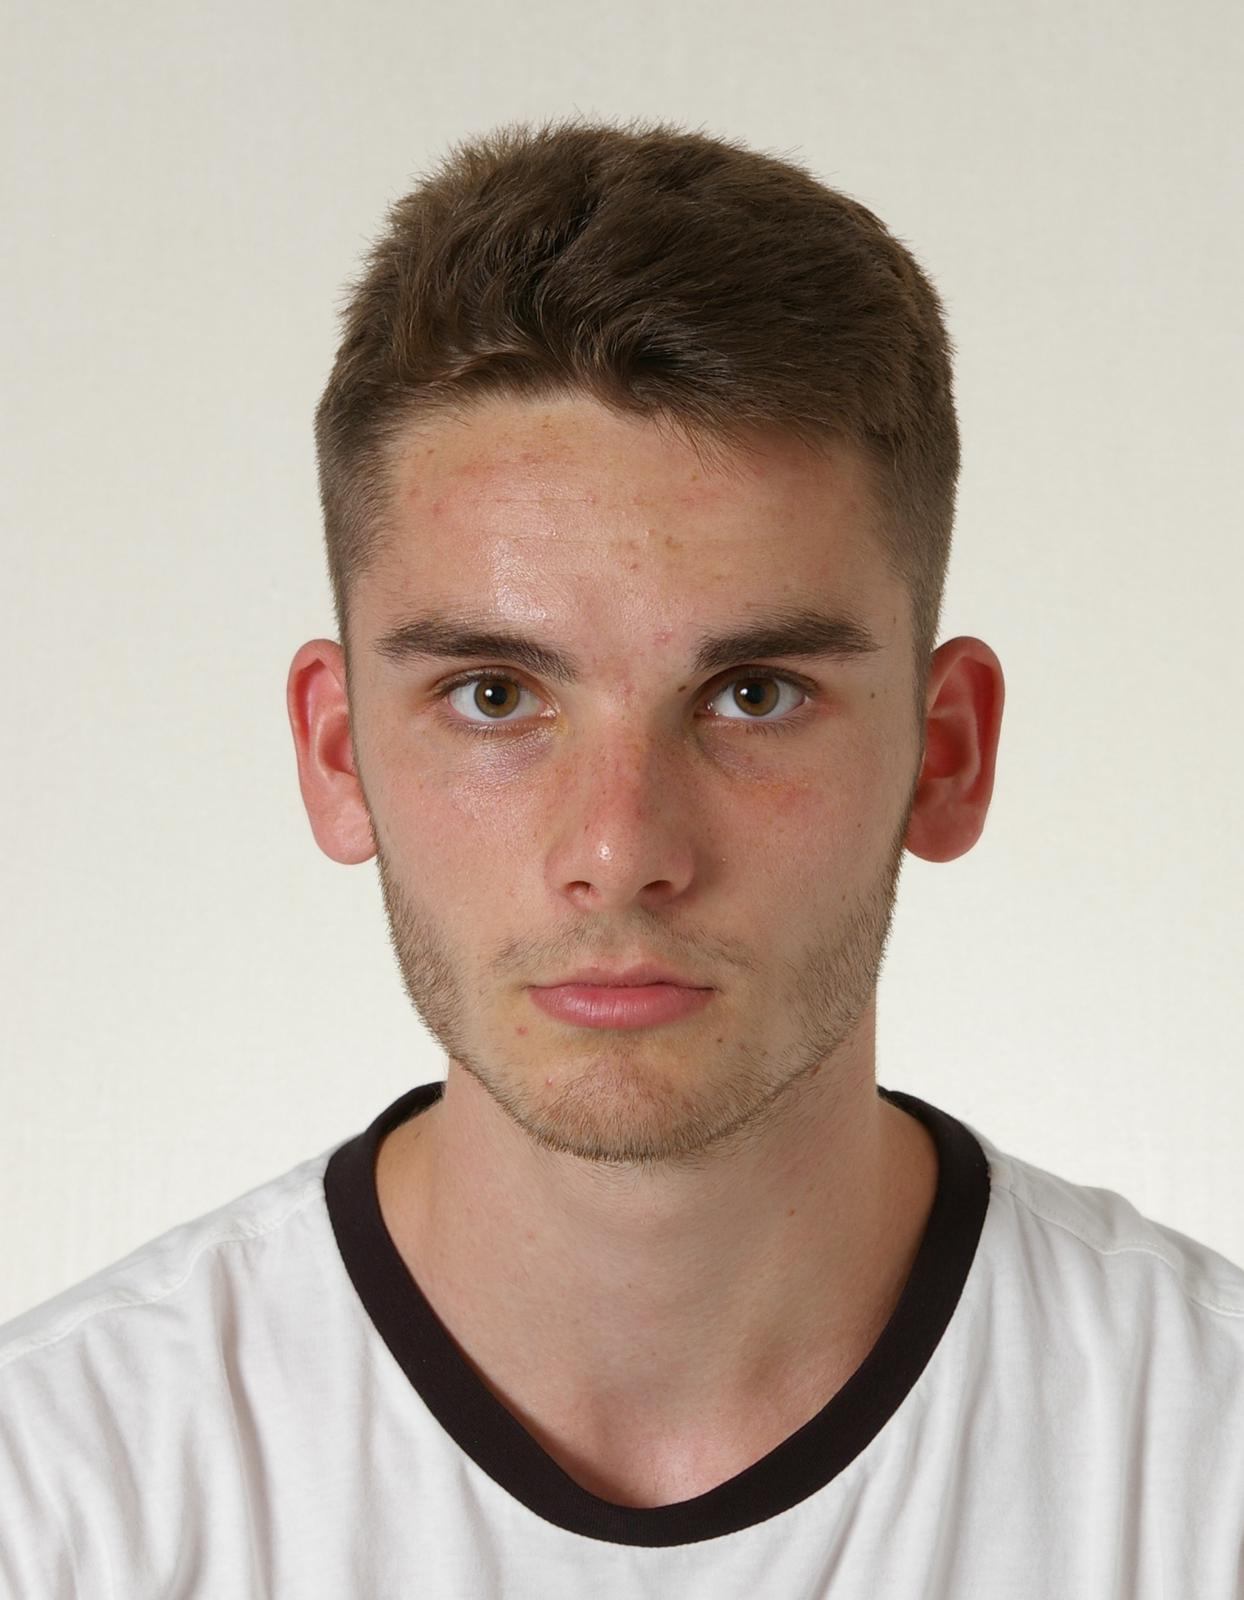
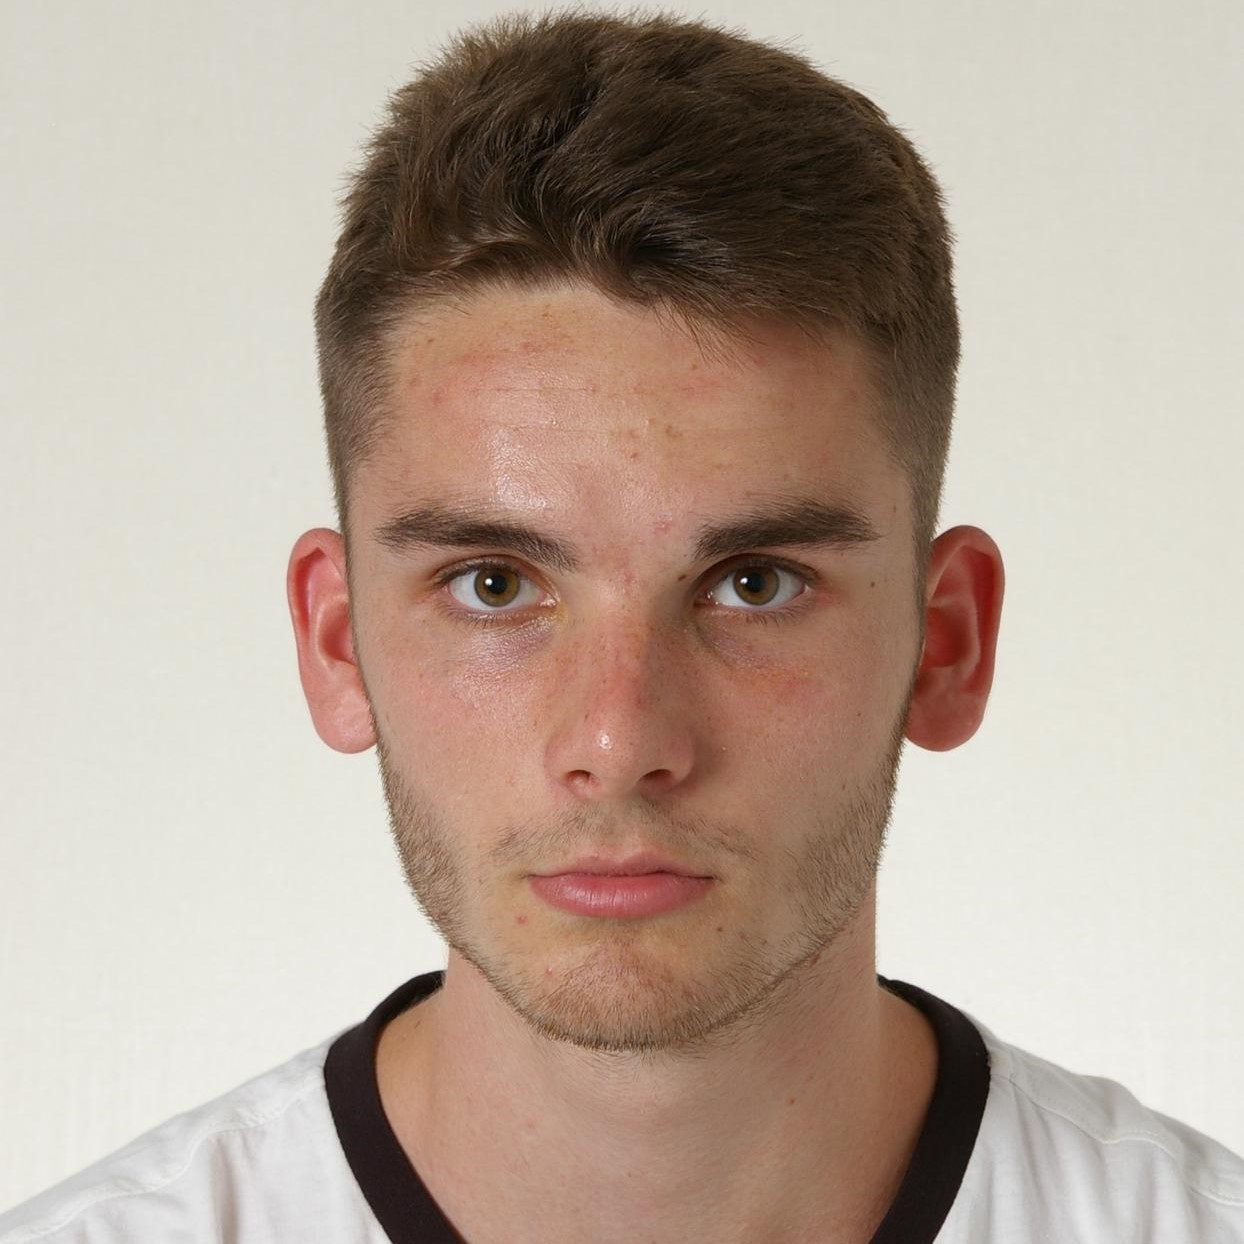
image sizes, added prototype

diff --git a/index.html b/index.html
@@ -107,7 +107,9 @@
 
         <div class="row">
           <div class="col-lg-6" data-aos="zoom-in">
-            <img src="assets/img/brewer.svg" class="img-fluid" alt="">
+            <!--<img src="assets/img/brewer.svg" class="img-fluid" alt="">-->
+            <img src="assets/img/prototype.jpeg" class="img-fluid" alt="">
+
           </div>
           <div class="col-lg-6 d-flex flex-column justify-contents-center" data-aos="fade-left">
             <div class="content pt-4 pt-lg-0">
